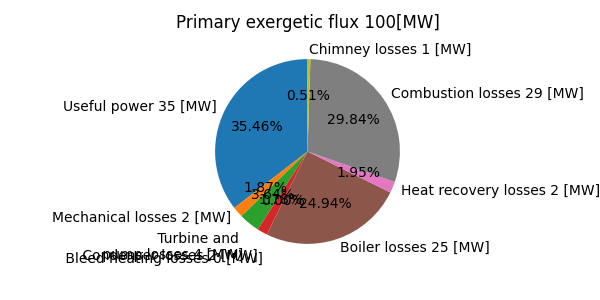
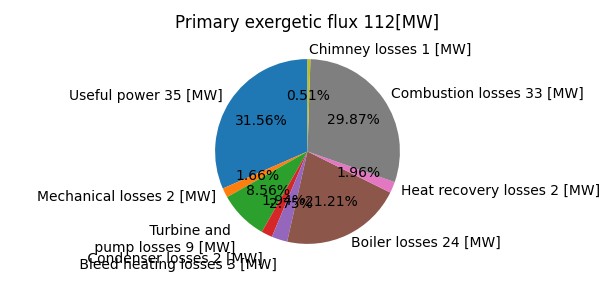
few changes

diff --git a/ST_feed_and_reheat_multi.py b/ST_feed_and_reheat_multi.py
@@ -456,6 +456,25 @@ def ST(ST_inputs):
         x91 = None
         e91 = h91-T0*s91
 
+        #échange de chaleur isobare entre 8 et 9
+        S89 = np.linspace(s8i[0],s91,100)
+        T89 = np.zeros(len(S89))
+        for i in range(0,len(S89)):
+            T89[i] = steamTable.t_ps(p8i[0],S89[i])
+        ax3.plot(S89,T89,'k')
+
+        Tinter = T7
+        s_inter = steamTable.s_ph(p7,h91)
+        T9inter = np.linspace(T91-273.15,T7-273.15,100)
+        S9inter = np.linspace(s91,s_inter,100)
+
+        ax3.plot(S9inter,T9inter,'k')
+
+        Tinter7 = np.linspace(Tinter-273.15,T7-273.15,100)
+        Sinter7 = np.linspace(s_inter,s7,100)
+        ax3.plot(Sinter7,Tinter7,'*')
+
+
         #state 91_postvanne
         h91_postvanne = h91
         x91_postvanne = steamTable.x_ph(p7,h91)
@@ -726,7 +745,7 @@ def ST(ST_inputs):
     T2p2pp = np.linspace(T2p,T2pp,100)
     S2p2pp = np.linspace(S2p,S2pp,100)
 
-    S22p = np.linspace(s2,S2p,100)+1
+    S22p = np.linspace(s2,S2p,100)
     T22p = np.zeros(len(S22p))
     for i in range(0,len(S22p)):
         T22p[i] = steamTable.t_ps(p2,S22p[i])
@@ -776,8 +795,8 @@ def ST(ST_inputs):
 ST_inputs = ST_arg.ST_inputs();
 ST_inputs.Pe = 35.0e3 #[kW]
 ST_inputs.DISPLAY = 1
-ST_inputs.nsout = 0
-ST_inputs.reheat = 3
+ST_inputs.nsout = 2
+ST_inputs.reheat = 0
 ST_inputs.p3_hp=100
 ST_inputs.p4 = 30
 answers = ST(ST_inputs);
